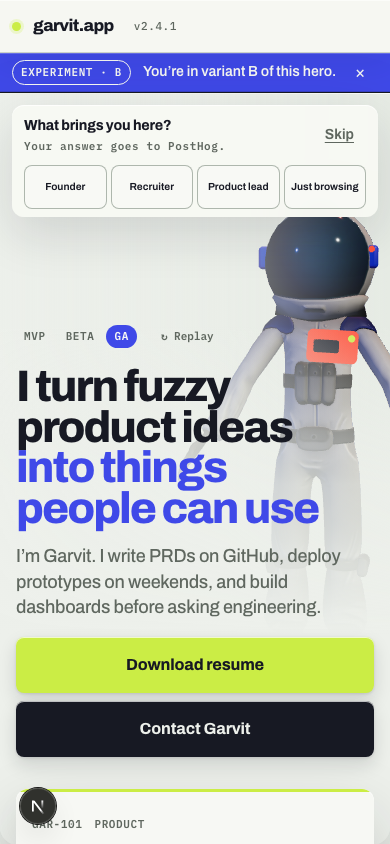
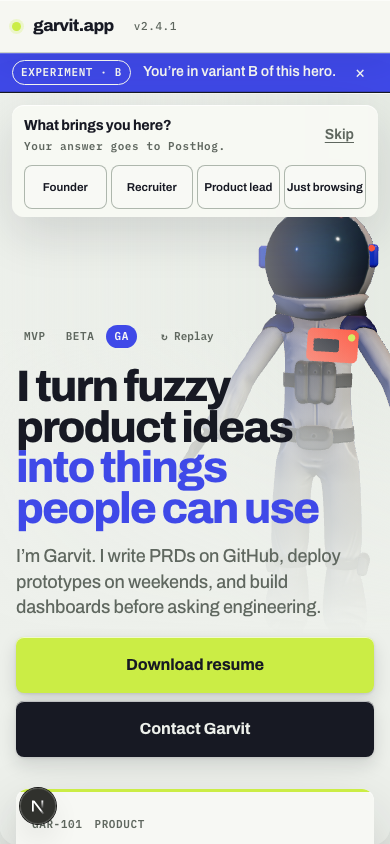
docs: refresh mobile world evidence

diff --git a/docs/qa/immersive/gate-c/evidence.md b/docs/qa/immersive/gate-c/evidence.md
@@ -43,6 +43,16 @@ than estimated from the asset manifest.
 - [Mobile light, 390×844](./mobile-light-390x844.png)
 - [Mobile dark, 390×844](./mobile-dark-390x844.png)
 
+The three mobile artifacts were recaptured after the judged persona-label tune
+from `0.64rem` to `0.72rem`. Dimensions remain 390×844 and the four choices,
+Skip control, headline, both CTAs, and ticket boundary remain unclipped.
+
+| Refreshed mobile artifact | Bytes | SHA-256 |
+| --- | ---: | --- |
[3 lines of base64/hex data omitted]
+
 ### Fallbacks
 
 - [Reduced motion, light, 1440×900](./reduced-motion-light-1440x900.png)
@@ -128,4 +138,3 @@ by approximately +0.1KB gzip; the lazy Three total remained 227.2KB.
   engine. These are operability checks, not visual-quality scores.
 - Apple and Taste scores are intentionally absent here. They belong to the
   independent Gate C judge.
-
